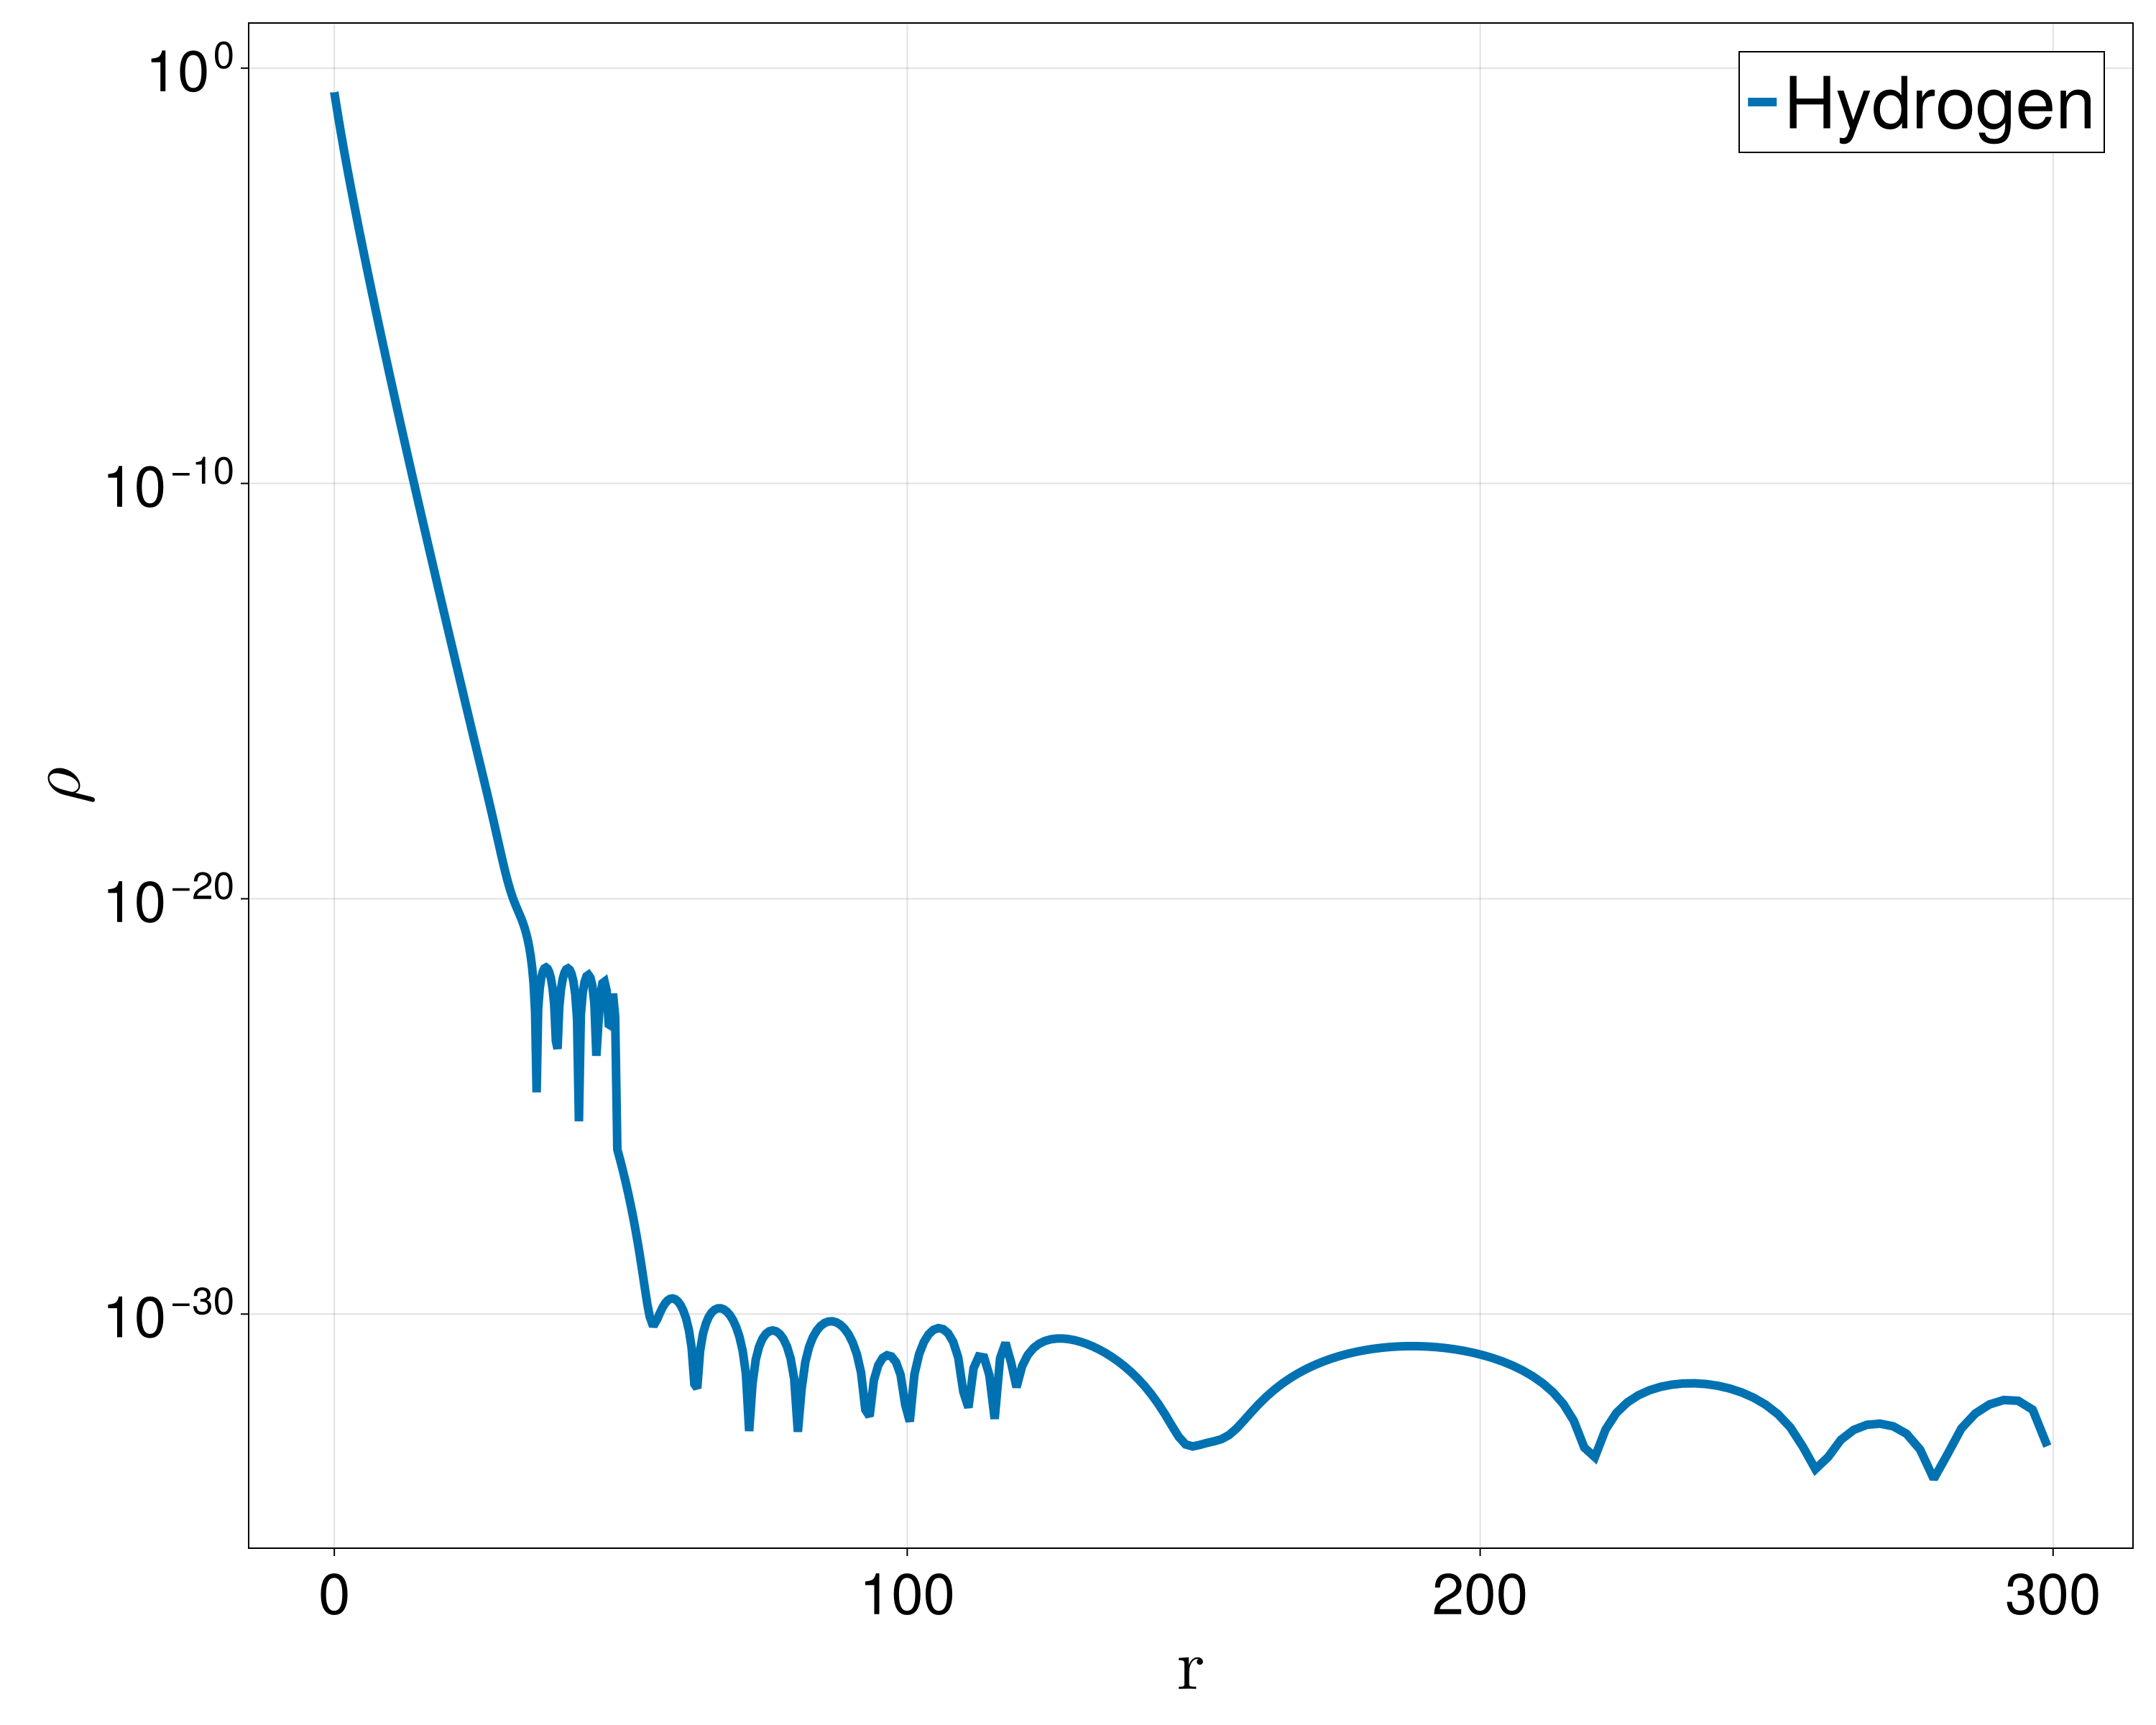
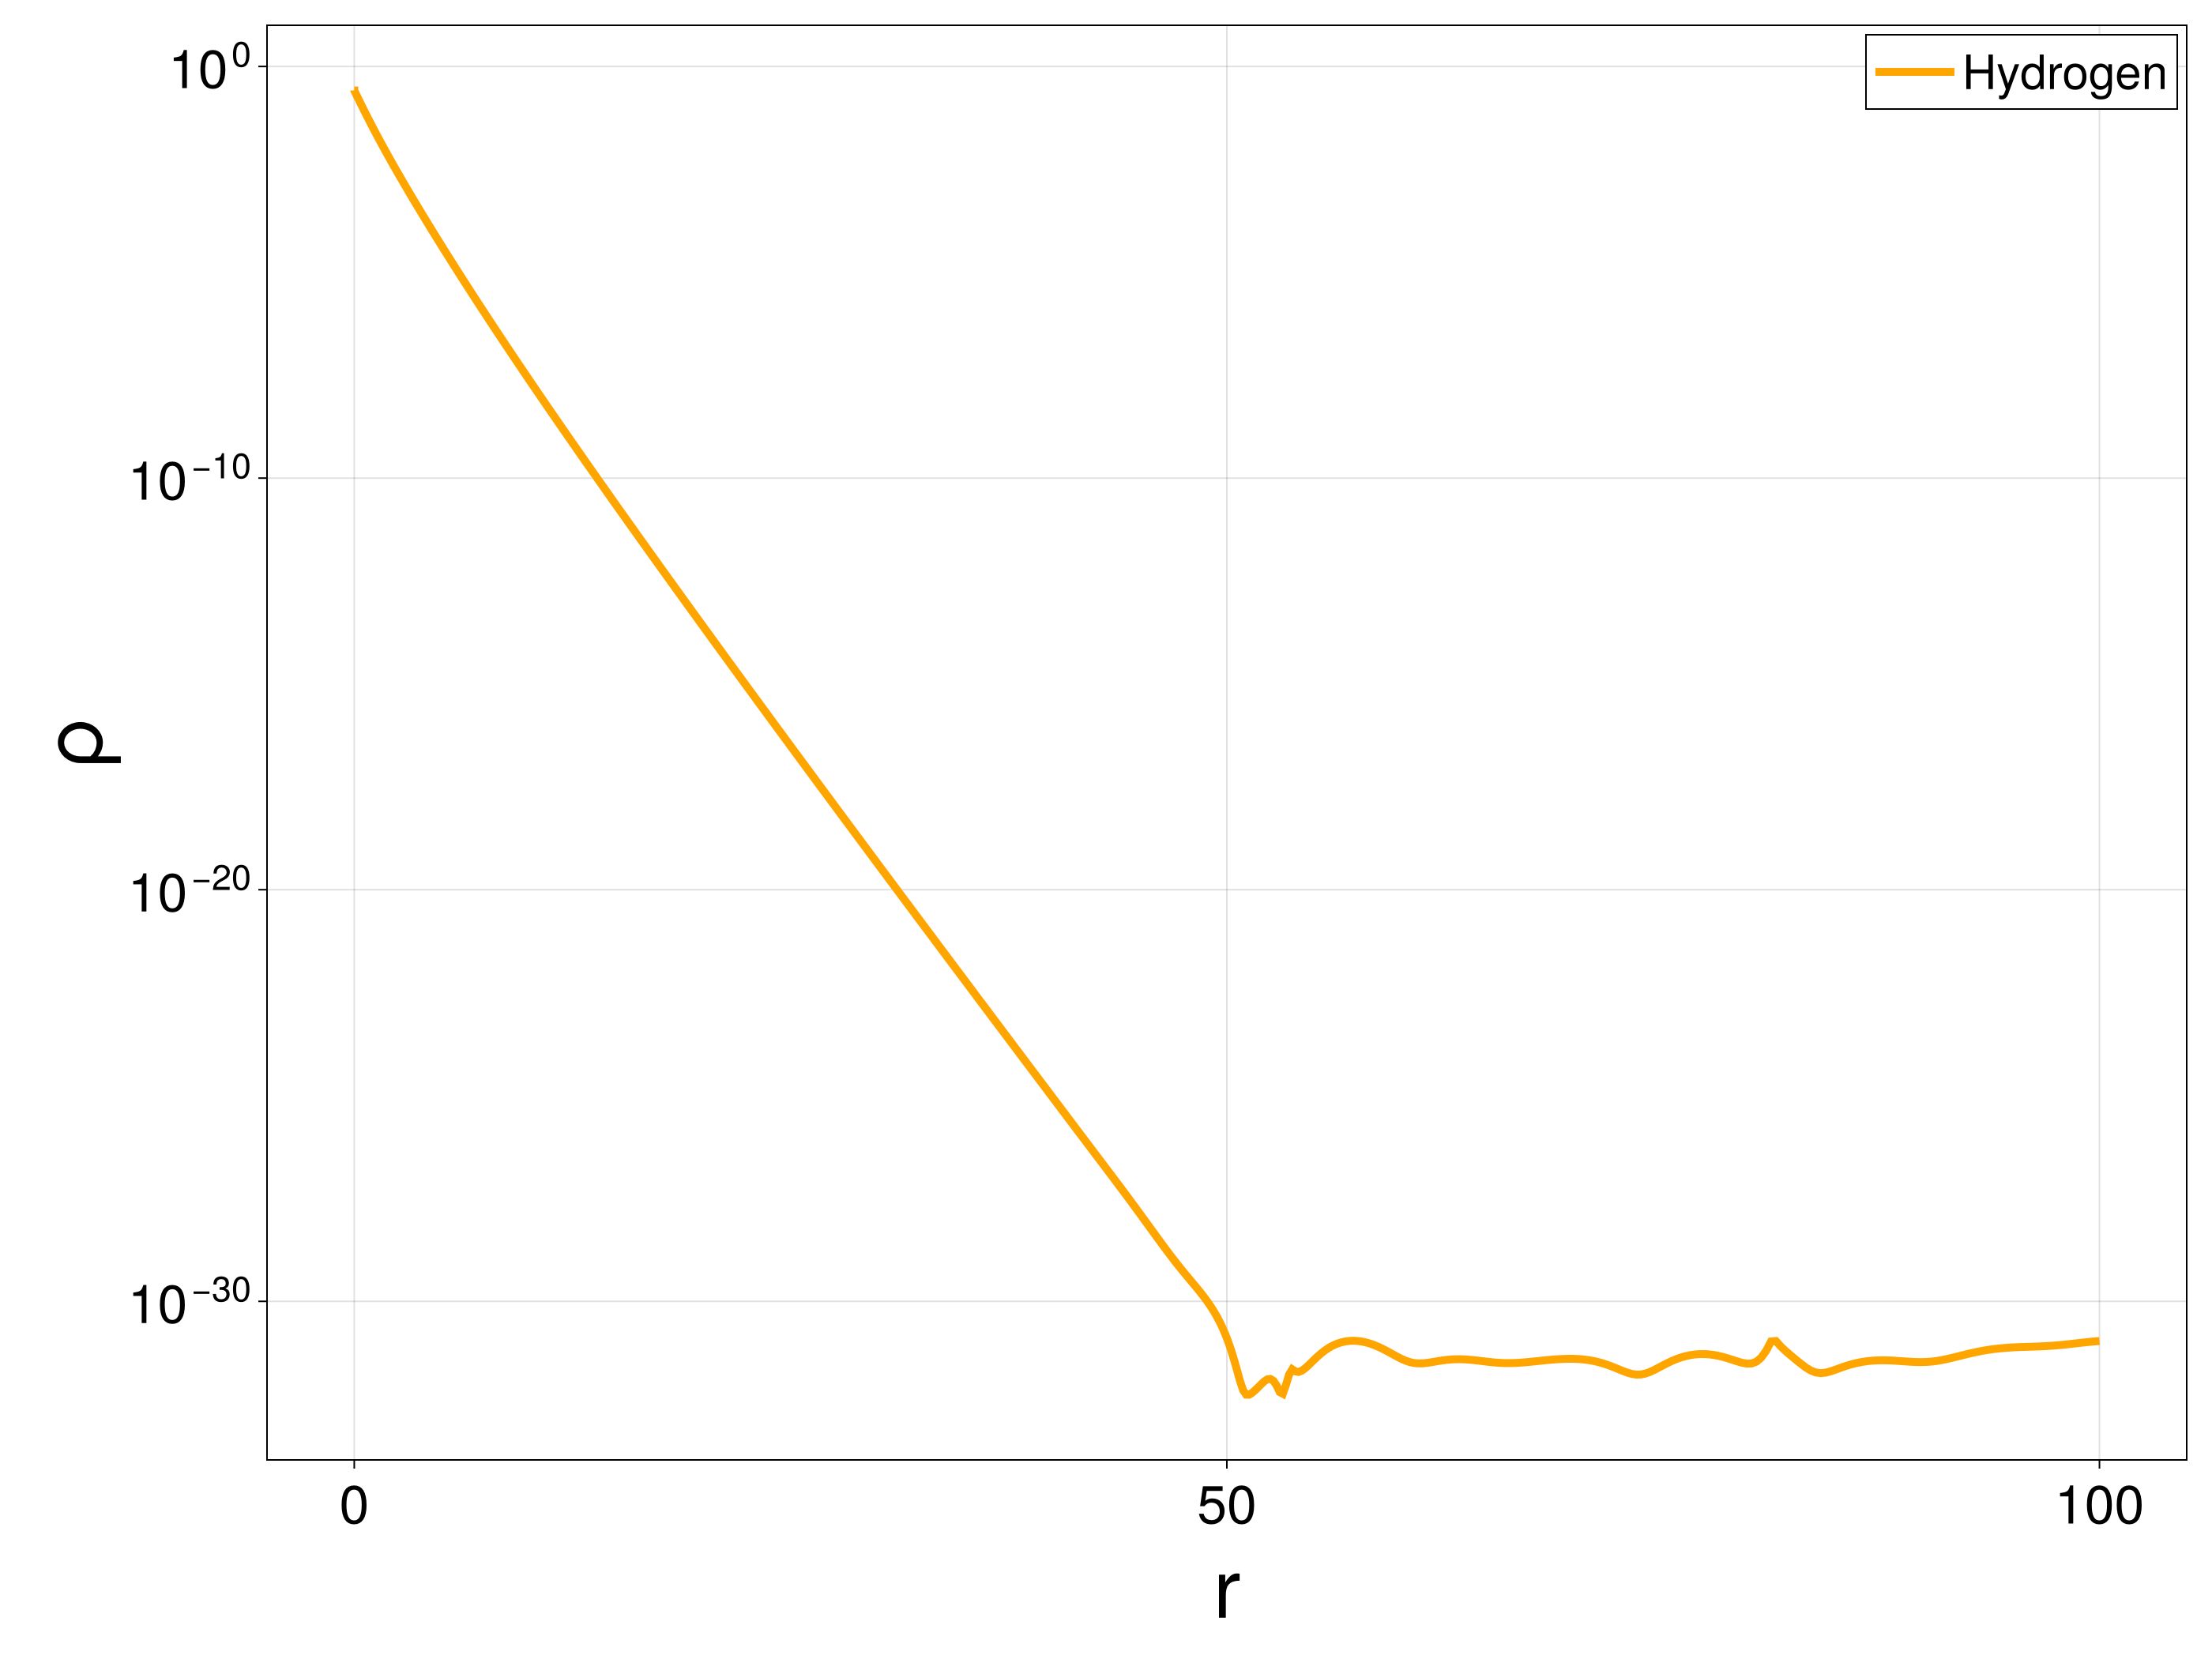
New readme

diff --git a/README.md b/README.md
@@ -27,11 +27,11 @@ The code supports both **double (Float64)** and **quadruple (Double64)** floatin
 ## Key Features
 Currently supported functionalities:
 
-- **SCF Algorithms:** CDA | ODA | Quadratic  
+- **SCF Algorithm:** ODA (Optimal Damping Algorithm)
 - **Symmetry:** Spherical → radial  
 - **FEM Basis:** Integrated Legendre polynomials (order ≤ 20)  
-- **Exchange–Correlation:** LDA, LSDA  
-- **Mesh Types:** Linear, Geometric, Exponential  
+- **Exchange–Correlation:** LDA, LSDA (via [Libxc.jl](https://github.com/unkcpz/Libxc.jl), plus a built-in Slater exchange)
+- **Mesh Types:** Linear, Geometric, Polynomial, Exponential, Exp-Lin
 - **Precision:** Float64 (double), Double64 (quadruple)
 
 ## Recommendations
@@ -45,69 +45,59 @@ This combination offers a good balance between numerical accuracy and computatio
 - Currently, only one FEM basis has been implemented. However, adding a new one is straightforward, as all FEM matrix assemblies are handled automatically
 
 
-- Higer precision should works but this has not been thoroughly tested.
+- Higher precision should work but this has not been thoroughly tested.
 
 ## Example
 
-Here is one example on the hydrogen atom with the Slater exchange. You can directly create the whole problem with
-all parameters.
-```julia
-problem = AtomProblem(;
-                       # MODEL PARAMETERS
-                       
-                       z = 1,                               # Nuclear Charge
-                       N = 1,                               # Number of electrons
-                       ex = Functional(:lda_x, n_spin = 1), # Exchange Functional
-                       ec = NoFunctional(1),                # Correlation Functional
-
-                       # DISCRETIZATION PARAMETERS
-                       lh = 0,                              # Angular momentum cutoff       
-                       Nmesh = 10,                          # Number of points of the mesh
-                       Rmax = 300,                          # Radial domain cutoff
-
-                       typemesh = expmesh,                  # How the mesh is generated
-                       optsmesh = (s = 1.5,),               # Options to this generation
-
-                       typebasis = P1IntLegendreBasis,      # Choice of FEM Basis
-                       optsbasis = (ordermax = 10,),        # Polynomials up to order 10.
-
-                       integration_method = GaussLegendre,  # Method for integrals quadrature
-                       optsintegration = (npoints = 1000,)  # Options for this method
-
-                       # ALGORITHMS
-                       alg = ODA(0.4),                      # SCF alg : Optimal Dampling
-
-                       # SOLVER OPTIONS
-                       T = Float64,                         # Data type for computations
-                       scftol = 1e-11,                      # SCF Tolerance
-                       maxiter = 100,                       # Max number of SCF iterations
-                       degen_tol = 1e-2,                    # Tolerance between orbital
-                                                            # energies to detect degeneracy
-                       verbose = 0)                         # Verbosity level: 
-                                                            # 0 = silent, 3 = maximum verbosity
-``` 
-Additional options are available but have been omitted here for simplicity.
-
-Then, you can find the groundstate :
+Here is the hydrogen atom with the Slater exchange functional (no
+correlation). Every calculation is built from four pieces: a physical
+**model**, a **discretization** (radial mesh + FEM basis), an SCF
+**algorithm**, and finally `groundstate` to solve it:
 
 ```julia
-sol = groundstate(problem)
+using AtomicKohnSham
+using Libxc
 
+# Model: nuclear charge, electron count, exchange/correlation functionals
+model = KSEModel(Z = 1, N = 1, ex = Functional(:lda_x; n_spin = 1), ec = NoFunctional(1))
+
+# Discretization: radial mesh + FEM basis
+mesh = expmesh(0, 300, 20; s = 1.5)
+basis = P1IntLegendreBasis(mesh; ordermax = 10)
+discretization = KSEDiscretization(basis, model; lh = 0, nh = 3)
+
+# Algorithm: Optimal Damping Algorithm (ODA)
+alg = ODA(tinit = 0.6, scftol = 1e-11)
+
+# Solve
+sol = groundstate(model, discretization, alg; maxiter = 100)
+```
+
+```julia
 julia> sol
 Name : Hydrogen
-Sucess = SUCCESS
-niter = 20
-Stopping criteria = 7.588619340831631e-12
-All Energies :
-            Ekin = 0.40653407924275053 
-            Ecou = -0.9000752043172076 
-            Ehar = 0.27492250294985154 
-            Eexc = -0.1879154570959805 
-            Etot = -0.40653407922058604 
+Success = SUCCESS
+niter = 19
+Stopping criteria = 9.029719505180509e-12
 Occupation number = 
-            1s : (-0.19425006196620562,1.0) 
-``` 
-The associated density can be plotted with a logarithmic y-axis: 
+            1s : ε = -1.942500619576336e-01        n = 1.0
+```
+The associated density can be plotted (log scale on the y-axis) with the
+`CairoMakie` [plotting extension](https://theozeud.github.io/AtomicKohnSham/dev/tutorials/results/):
+
+```julia
+using CairoMakie
+
+X = AtomicKohnSham.exprange(1e-3, 100, 2000; s = 1.5)
+save("density.png", plot_density(sol, X))
+```
 
 ![](assets/readme_density.png)
+
+## Documentation
+
+See the [documentation](https://theozeud.github.io/AtomicKohnSham/dev/) for
+a full tutorial: building models and discretizations, running the SCF loop,
+analyzing a solution (orbitals, density, potentials), and exporting reports,
+logs, and plots.
 